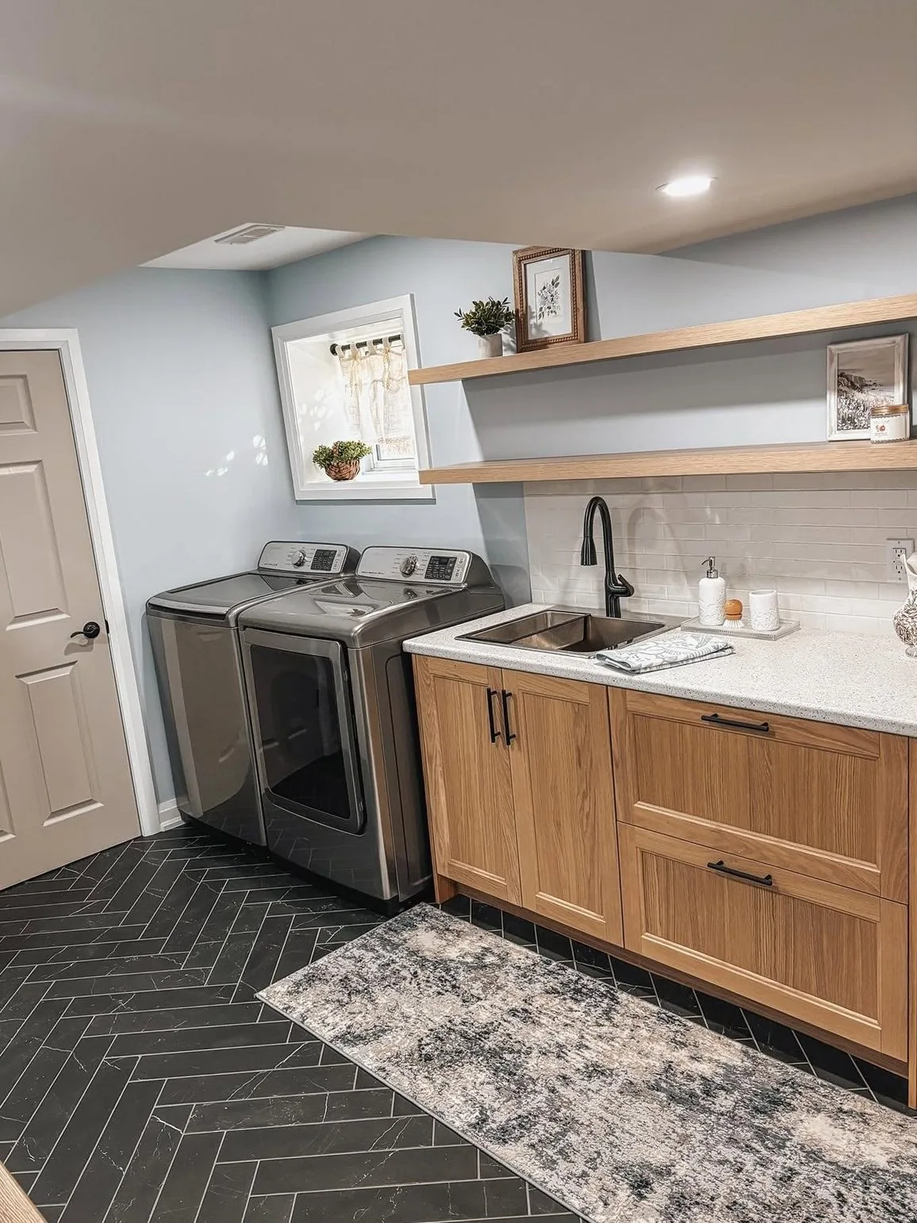
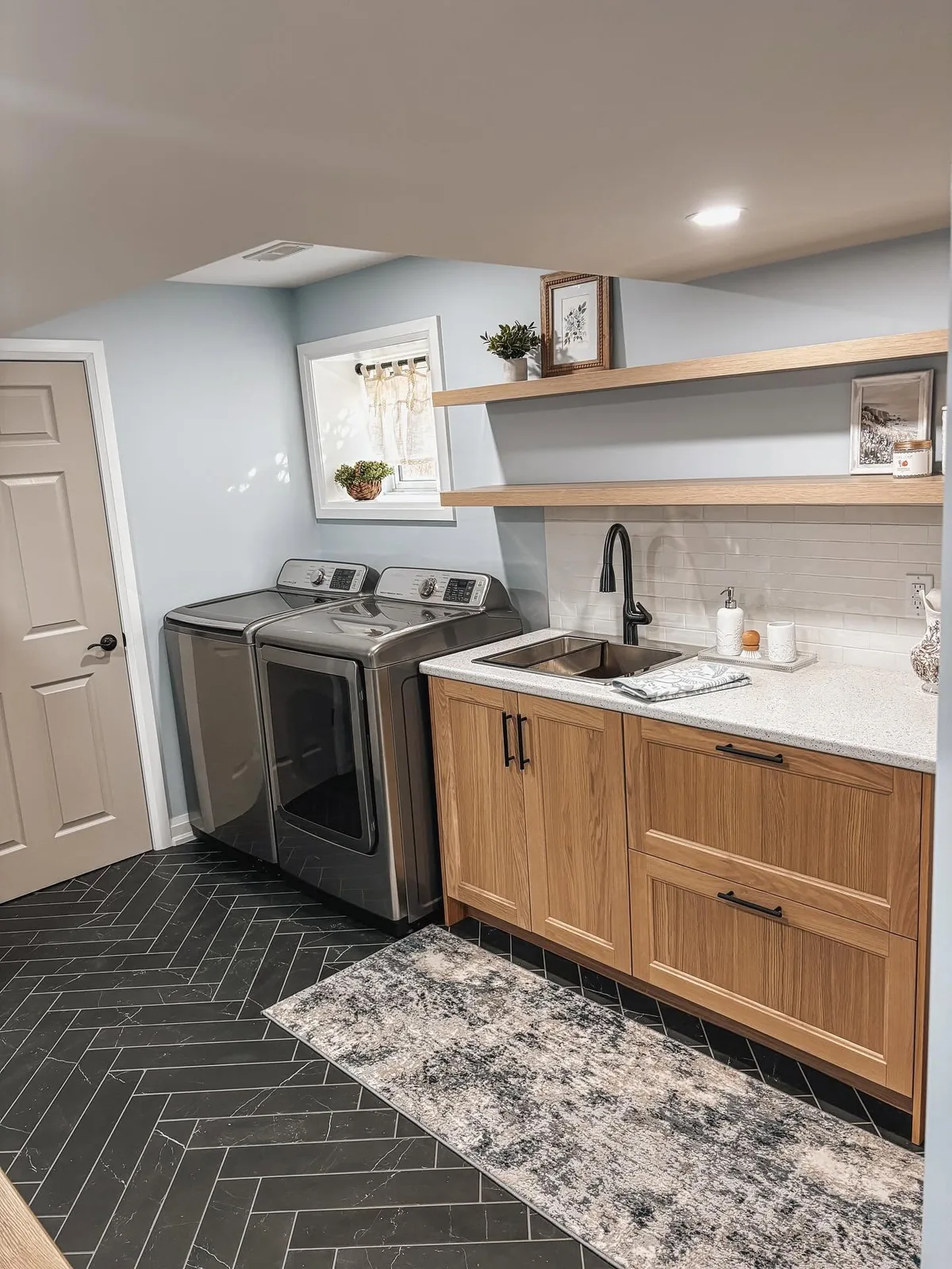
Add the pebble strip shot and re-encode twelve from larger sources
An audit of the inbox against everything published turned up thirteen
photographs my hash scored as unmatched. Checked side by side, all
thirteen are shots already on the site at a different crop, not new work.
Nothing in the inbox is now missing from the gallery.

Twelve of them did have larger copies than what we published, though, so
those are re-encoded from the inbox originals: g-fire-room and g-fire-wide
gain about 250px on the long edge, g-laundry-sink and g-laundry-doors
about 270, and so on. g-base-laundry doubles as an og:image card, so its
JPEG is regenerated to match.

The marble-look bathroom also gains the pebble mosaic strip beside the
window, which was the last unpublished photograph from that job.

diff --git a/gallery.html b/gallery.html
@@ -98,7 +98,7 @@
         <li class="mosaic__item">
           <button type="button" class="mosaic__btn" data-project="p3">
             <img src="images/g-mbath-shower.webp" alt="Shower in marble-look large-format tile" loading="lazy">
-            <span class="mosaic__label">Marble-look bathroom<em>6 photos</em></span>
+            <span class="mosaic__label">Marble-look bathroom<em>7 photos</em></span>
           </button>
         </li>
         <li class="mosaic__item">
@@ -199,7 +199,7 @@
         </li>
       </ul>
 
-      <script type="application/json" id="project-data">{"p0": {"title": "Fireplace surround", "note": "Full-height porcelain in a marble look, run floor to ceiling and returned around the corner so no cut edge is ever on show. The mantel is solid timber on concealed blocks, set above a see-through firebox.", "photos": [{"src": "images/g-fire-wide.webp", "alt": "Black marble-look fireplace surround run floor to ceiling, with a timber mantel over a see-through firebox"}, {"src": "images/g-fire-room.webp", "alt": "Black marble-look fireplace surround running full height"}, {"src": "images/g-fire-mantel.webp", "alt": "Timber mantel on cantilevered blocks above the firebox"}]}, "p1": {"title": "Charcoal shower", "note": "Large-format walls with a hexagon feature and a quartz bench. Behind all of it is a bonded waterproofing membrane taken up the walls and over the bench before a single tile went on. Levelling clips hold every tile flush while the mortar cures.", "photos": [{"src": "images/g-shower-done.webp", "alt": "Charcoal shower with hexagon feature wall and quartz bench", "stage": "Finished"}, {"src": "images/g-shower-progress.webp", "alt": "The same shower mid-build, waterproofing membrane and levelling clips visible", "stage": "During: waterproofing and levelling clips"}]}, "p2": {"title": "Fireplace and floating shelves", "note": "Concrete-look porcelain laid in herringbone, which means every tile is a cut and the pattern has to stay true right across the wall. Solid oak mantel and floating shelves, mitred where they return into the corner.", "photos": [{"src": "images/g-fire2-room.webp", "alt": "Living room with herringbone tiled fireplace wall and oak shelves"}, {"src": "images/g-fire2-wall.webp", "alt": "The fireplace wall straight on showing the herringbone pattern"}, {"src": "images/g-fire2-shelves.webp", "alt": "Solid oak floating shelves mitred into the corner"}]}, "p3": {"title": "Marble-look bathroom", "note": "Large-format porcelain with a pebble mosaic strip run floor to ceiling as a feature. The niche is framed in quartz so there is no exposed tile edge anywhere you would put your hand.", "photos": [{"src": "images/g-mbath-shower.webp", "alt": "Shower in marble-look large-format tile"}, {"src": "images/g-mbath-niche.webp", "alt": "Pebble mosaic feature strip beside a quartz-framed niche"}, {"src": "images/g-mbath-vanity.webp", "alt": "Vessel sink on a shaped quartz counter"}, {"src": "images/g-mbath-wide.webp", "alt": "The finished room with round mirror and sconces"}, {"src": "images/g-mbath-tub.webp", "alt": "The same bathroom wider, showing the tub set into the tiled surround"}, {"src": "images/g-mbath-room.webp", "alt": "Vessel basin on a shaped counter with a wall mounted tap, sconces either side of an oval mirror"}]}, "p4": {"title": "Navy kitchen", "note": "Shaker cabinetry with a quartz island, glazed subway backsplash and brass pendants. The island end is panelled with a cross detail rather than left flat.", "photos": [{"src": "images/g-kitchen-wide.webp", "alt": "Finished navy kitchen seen from the dining area"}, {"src": "images/g-kitchen-island.webp", "alt": "The island from the side showing the cross-panel end"}, {"src": "images/g-kitchen-range.webp", "alt": "Range wall with stainless hood and tiled backsplash"}, {"src": "images/g-kitchen-galley.webp", "alt": "View along the cabinetry to the farmhouse sink"}]}, "p5": {"title": "Basement, start to finish", "note": "Exposed joists and a concrete floor turned into a laundry and hallway. Framing, insulation and drywall through to herringbone tile, oak cabinetry and a quartz top.", "photos": [{"src": "images/g-base-laundry.webp", "alt": "Finished basement laundry with oak cabinetry and herringbone tile", "stage": "After"}, {"src": "images/g-floor-hall.webp", "alt": "Finished hallway with herringbone tile running through", "stage": "After"}, {"src": "images/g-base-before.webp", "alt": "The same basement before, exposed joists and concrete floor", "stage": "Before"}, {"src": "images/g-base-during.webp", "alt": "Framed up mid-build", "stage": "During: framing"}], "place": "Simcoe"}, "p6": {"title": "White shaker kitchen", "note": "Quartz peninsula, picket tile backsplash and a full run of shaker cabinetry opened to the living room. The floor was out of level, so the boxes were cut and scribed to sit true rather than shimmed.", "photos": [{"src": "images/g-wkit-open.webp", "alt": "White shaker kitchen open to the living room"}, {"src": "images/g-wkit-peninsula.webp", "alt": "Quartz peninsula with undermount sink and pendants"}, {"src": "images/g-wkit-range.webp", "alt": "Range wall with picket tile backsplash"}, {"src": "images/g-wkit-run.webp", "alt": "Full cabinetry run with tall pantry"}]}, "p7": {"title": "Tiled tub surround", "note": "The plastic surround that came with the bathroom was torn out and replaced with large-format porcelain, including a recessed niche trimmed in the same tile so the edges are mitred rather than capped. The before photograph is the old surround, not our work.", "photos": [{"src": "images/g-tub-after.webp", "alt": "Tiled tub surround in marble-look large format with a recessed niche", "stage": "After: tiled"}, {"src": "images/g-tub-before.webp", "alt": "The same tub before, with a moulded plastic surround", "stage": "Before: existing plastic surround"}]}, "p8": {"title": "Built-ins", "note": "Cabinetry built for the room it sits in rather than bought to fit it. Media wall with drawer banks and upper cabinets, and a fitted closet with shelving and rails set out to the owner's things.", "photos": [{"src": "images/g-builtin-media.webp", "alt": "Built-in media wall in sage green"}, {"src": "images/g-closet.webp", "alt": "Fitted closet with built-in shelving and rails"}, {"src": "images/g-builtin-panel.webp", "alt": "Built-in cabinet run below a cross-braced panelled wall"}, {"src": "images/g-closet2.webp", "alt": "Fitted closet with adjustable shelving and a double hanging rail"}]}, "p9": {"title": "Bathroom with patterned floor", "note": "Patterned floor tile laid so the repeat stays centred in the room, with a marble-look wainscot carried at one height right around the walls and a shower behind frameless glass. Holding that wainscot line level past a door, a window and a vanity is most of the work in a room like this.", "photos": [{"src": "images/g-pbath-room.webp", "alt": "The finished bathroom with patterned floor tile, looking through to the shower"}, {"src": "images/g-pbath-wide.webp", "alt": "The room from the doorway, patterned floor running through to the shower"}, {"src": "images/g-pbath-vanity.webp", "alt": "Double vanity with two oval mirrors against the tiled wainscot"}, {"src": "images/g-pbath-sinks.webp", "alt": "The vanity along its length, showing the quartz top and undermount basins"}, {"src": "images/g-pbath-shower.webp", "alt": "Marble-look shower with glass surround"}]}, "p10": {"title": "White and black bathroom", "note": "Handmade-look subway run as a wainscot with a capped edge, black fittings throughout, and slate-look floor tile.", "photos": [{"src": "images/g-bath2-shower.webp", "alt": "Tub and shower with black framed sliding glass"}, {"src": "images/g-bath2-vanity.webp", "alt": "Vanity with arched black-framed mirror"}, {"src": "images/g-bath2-wide.webp", "alt": "The finished room showing the tiled wainscot"}, {"src": "images/g-bath2-tub.webp", "alt": "The tub and black framed glass seen from the vanity end"}, {"src": "images/g-bath2-wc.webp", "alt": "The far corner with the tiled wainscot carried around behind the toilet"}]}, "p11": {"title": "Basement laundry", "note": "Backsplash tile set off a laser line with levelling clips, a coffered ceiling, plank flooring and fitted panelled doors.", "photos": [{"src": "images/g-laundry-wide.webp", "alt": "Finished basement laundry with tiled backsplash and coffered ceiling"}, {"src": "images/g-laundry-machines.webp", "alt": "Washer and dryer under the coffered ceiling, with the tiled backsplash and sink behind"}, {"src": "images/g-laundry-doors.webp", "alt": "Fitted panelled doors run along the room with the laundry beyond"}, {"src": "images/g-laundry-sink.webp", "alt": "Laundry sink and taps against the tiled wall"}, {"src": "images/g-laundry-tiling.webp", "alt": "Joel setting the backsplash off a laser line", "stage": "During: setting the backsplash"}]}, "p12": {"title": "Backsplashes", "note": "Arabesque glass, chevron mosaic, and a patterned panel set into plain subway. All are laid out dry first so the cuts land where they are least seen, at the edges rather than through the middle of the wall. The patterned panel is framed by the field tile on every side, so it reads as an inset rather than somewhere the tiler ran out.", "photos": [{"src": "images/g-tile-arabesque.webp", "alt": "Blue and grey arabesque glass tile backsplash"}, {"src": "images/g-tile-chevron.webp", "alt": "White chevron mosaic tile backsplash"}, {"src": "images/g-tile-patterned.webp", "alt": "Patterned tile panel set into a plain subway backsplash behind the sink"}]}, "p13": {"title": "Sage green kitchen", "note": "Flat panel cabinetry in a muted green with a fireclay apron sink and a built on site hood. The subway tile is stacked to a laser line rather than followed off the counter, so the joints stay true the full width of the wall.", "photos": [{"src": "images/g-sage-wide.webp", "alt": "Sage green kitchen looking down the run to the range and hood"}, {"src": "images/g-sage-sink.webp", "alt": "Fireclay apron sink under the window with subway tile behind"}, {"src": "images/g-sage-fridge.webp", "alt": "Tall cabinetry beside the fridge with a built in microwave"}]}, "p14": {"title": "Marble and black bathroom", "note": "Tub and shower in one room, in large format porcelain with a marble look. The tub apron is tiled and mitred at the corner rather than capped with trim, and the niche is lined in the same dark hexagon mosaic as the floor.", "photos": [{"src": "images/g-cbath-shower.webp", "alt": "Shower in marble look porcelain behind black framed glass"}, {"src": "images/g-cbath-tub.webp", "alt": "Tub set into a tiled surround with black fittings"}]}, "p15": {"title": "Traditional white kitchen", "note": "Painted cabinetry with glazed upper doors, a tiled backsplash and large format stone look floor tile carried through into the dining area.", "photos": [{"src": "images/g-tkit-wide.webp", "alt": "White kitchen with glazed upper cabinets and a tiled floor"}, {"src": "images/g-tkit-glass.webp", "alt": "Cabinetry beside the patio door with glass fronted uppers"}]}, "p16": {"title": "Herringbone range wall", "note": "Stone look porcelain run in herringbone the full height behind the range. Every tile in a herringbone is a cut, and the layout is set off the centre line of the hood so the pattern stays symmetrical on both sides.", "photos": [{"src": "images/g-hkit-hood.webp", "alt": "Herringbone tiled range wall with a stainless chimney hood"}]}, "p17": {"title": "Geometric backsplash", "note": "A geometric mosaic against dark stained cabinetry and a quartz counter. Sheet mosaic shows every misalignment, so the sheets are dry laid across the whole run and the grid trued up before any of it is fixed.", "photos": [{"src": "images/g-gkit-backsplash.webp", "alt": "White geometric mosaic backsplash above a quartz counter"}]}, "p18": {"title": "New counters, existing cabinets", "note": "The oak was sound and worth keeping, so the job was quartz counters, a new sink and tap and a tiled backsplash, rather than tearing out a kitchen that had years left in it.", "photos": [{"src": "images/g-counters-oak.webp", "alt": "Quartz counters and a new backsplash fitted to existing oak cabinets"}]}, "p19": {"title": "Deck and privacy screens", "note": "A raised deck with cedar privacy screens. The screens are framed and infilled rather than butted together, so the boards can move with the weather without opening gaps along the joints.", "photos": [{"src": "images/g-deck-screen.webp", "alt": "Raised deck with cedar privacy screens and steps down to the garden"}, {"src": "images/g-deck-wide.webp", "alt": "Raised cedar deck with privacy screening along two sides"}, {"src": "images/g-deck-cedar.webp", "alt": "Cedar screen wall seen along the deck"}]}, "p20": {"title": "Marble shower with mosaic band", "note": "Large format porcelain in a soft grey marble, with a mosaic band run level right around the enclosure and a bench built into the corner. The floor is a small round mosaic, which is what lets a shower floor fall to the drain from every direction without any tile having to bend.", "photos": [{"src": "images/g-pbath-bench.webp", "alt": "Grey marble shower with a mosaic accent band, corner bench and frameless glass"}]}}</script>
+      <script type="application/json" id="project-data">{"p0": {"title": "Fireplace surround", "note": "Full-height porcelain in a marble look, run floor to ceiling and returned around the corner so no cut edge is ever on show. The mantel is solid timber on concealed blocks, set above a see-through firebox.", "photos": [{"src": "images/g-fire-wide.webp", "alt": "Black marble-look fireplace surround run floor to ceiling, with a timber mantel over a see-through firebox"}, {"src": "images/g-fire-room.webp", "alt": "Black marble-look fireplace surround running full height"}, {"src": "images/g-fire-mantel.webp", "alt": "Timber mantel on cantilevered blocks above the firebox"}]}, "p1": {"title": "Charcoal shower", "note": "Large-format walls with a hexagon feature and a quartz bench. Behind all of it is a bonded waterproofing membrane taken up the walls and over the bench before a single tile went on. Levelling clips hold every tile flush while the mortar cures.", "photos": [{"src": "images/g-shower-done.webp", "alt": "Charcoal shower with hexagon feature wall and quartz bench", "stage": "Finished"}, {"src": "images/g-shower-progress.webp", "alt": "The same shower mid-build, waterproofing membrane and levelling clips visible", "stage": "During: waterproofing and levelling clips"}]}, "p2": {"title": "Fireplace and floating shelves", "note": "Concrete-look porcelain laid in herringbone, which means every tile is a cut and the pattern has to stay true right across the wall. Solid oak mantel and floating shelves, mitred where they return into the corner.", "photos": [{"src": "images/g-fire2-room.webp", "alt": "Living room with herringbone tiled fireplace wall and oak shelves"}, {"src": "images/g-fire2-wall.webp", "alt": "The fireplace wall straight on showing the herringbone pattern"}, {"src": "images/g-fire2-shelves.webp", "alt": "Solid oak floating shelves mitred into the corner"}]}, "p3": {"title": "Marble-look bathroom", "note": "Large-format porcelain with a pebble mosaic strip run floor to ceiling as a feature. The niche is framed in quartz so there is no exposed tile edge anywhere you would put your hand.", "photos": [{"src": "images/g-mbath-shower.webp", "alt": "Shower in marble-look large-format tile"}, {"src": "images/g-mbath-niche.webp", "alt": "Pebble mosaic feature strip beside a quartz-framed niche"}, {"src": "images/g-mbath-vanity.webp", "alt": "Vessel sink on a shaped quartz counter"}, {"src": "images/g-mbath-wide.webp", "alt": "The finished room with round mirror and sconces"}, {"src": "images/g-mbath-tub.webp", "alt": "The same bathroom wider, showing the tub set into the tiled surround"}, {"src": "images/g-mbath-room.webp", "alt": "Vessel basin on a shaped counter with a wall mounted tap, sconces either side of an oval mirror"}, {"src": "images/g-mbath-strip.webp", "alt": "The pebble mosaic strip run floor to ceiling beside the window, with the tub below"}]}, "p4": {"title": "Navy kitchen", "note": "Shaker cabinetry with a quartz island, glazed subway backsplash and brass pendants. The island end is panelled with a cross detail rather than left flat.", "photos": [{"src": "images/g-kitchen-wide.webp", "alt": "Finished navy kitchen seen from the dining area"}, {"src": "images/g-kitchen-island.webp", "alt": "The island from the side showing the cross-panel end"}, {"src": "images/g-kitchen-range.webp", "alt": "Range wall with stainless hood and tiled backsplash"}, {"src": "images/g-kitchen-galley.webp", "alt": "View along the cabinetry to the farmhouse sink"}]}, "p5": {"title": "Basement, start to finish", "note": "Exposed joists and a concrete floor turned into a laundry and hallway. Framing, insulation and drywall through to herringbone tile, oak cabinetry and a quartz top.", "photos": [{"src": "images/g-base-laundry.webp", "alt": "Finished basement laundry with oak cabinetry and herringbone tile", "stage": "After"}, {"src": "images/g-floor-hall.webp", "alt": "Finished hallway with herringbone tile running through", "stage": "After"}, {"src": "images/g-base-before.webp", "alt": "The same basement before, exposed joists and concrete floor", "stage": "Before"}, {"src": "images/g-base-during.webp", "alt": "Framed up mid-build", "stage": "During: framing"}], "place": "Simcoe"}, "p6": {"title": "White shaker kitchen", "note": "Quartz peninsula, picket tile backsplash and a full run of shaker cabinetry opened to the living room. The floor was out of level, so the boxes were cut and scribed to sit true rather than shimmed.", "photos": [{"src": "images/g-wkit-open.webp", "alt": "White shaker kitchen open to the living room"}, {"src": "images/g-wkit-peninsula.webp", "alt": "Quartz peninsula with undermount sink and pendants"}, {"src": "images/g-wkit-range.webp", "alt": "Range wall with picket tile backsplash"}, {"src": "images/g-wkit-run.webp", "alt": "Full cabinetry run with tall pantry"}]}, "p7": {"title": "Tiled tub surround", "note": "The plastic surround that came with the bathroom was torn out and replaced with large-format porcelain, including a recessed niche trimmed in the same tile so the edges are mitred rather than capped. The before photograph is the old surround, not our work.", "photos": [{"src": "images/g-tub-after.webp", "alt": "Tiled tub surround in marble-look large format with a recessed niche", "stage": "After: tiled"}, {"src": "images/g-tub-before.webp", "alt": "The same tub before, with a moulded plastic surround", "stage": "Before: existing plastic surround"}]}, "p8": {"title": "Built-ins", "note": "Cabinetry built for the room it sits in rather than bought to fit it. Media wall with drawer banks and upper cabinets, and a fitted closet with shelving and rails set out to the owner's things.", "photos": [{"src": "images/g-builtin-media.webp", "alt": "Built-in media wall in sage green"}, {"src": "images/g-closet.webp", "alt": "Fitted closet with built-in shelving and rails"}, {"src": "images/g-builtin-panel.webp", "alt": "Built-in cabinet run below a cross-braced panelled wall"}, {"src": "images/g-closet2.webp", "alt": "Fitted closet with adjustable shelving and a double hanging rail"}]}, "p9": {"title": "Bathroom with patterned floor", "note": "Patterned floor tile laid so the repeat stays centred in the room, with a marble-look wainscot carried at one height right around the walls and a shower behind frameless glass. Holding that wainscot line level past a door, a window and a vanity is most of the work in a room like this.", "photos": [{"src": "images/g-pbath-room.webp", "alt": "The finished bathroom with patterned floor tile, looking through to the shower"}, {"src": "images/g-pbath-wide.webp", "alt": "The room from the doorway, patterned floor running through to the shower"}, {"src": "images/g-pbath-vanity.webp", "alt": "Double vanity with two oval mirrors against the tiled wainscot"}, {"src": "images/g-pbath-sinks.webp", "alt": "The vanity along its length, showing the quartz top and undermount basins"}, {"src": "images/g-pbath-shower.webp", "alt": "Marble-look shower with glass surround"}]}, "p10": {"title": "White and black bathroom", "note": "Handmade-look subway run as a wainscot with a capped edge, black fittings throughout, and slate-look floor tile.", "photos": [{"src": "images/g-bath2-shower.webp", "alt": "Tub and shower with black framed sliding glass"}, {"src": "images/g-bath2-vanity.webp", "alt": "Vanity with arched black-framed mirror"}, {"src": "images/g-bath2-wide.webp", "alt": "The finished room showing the tiled wainscot"}, {"src": "images/g-bath2-tub.webp", "alt": "The tub and black framed glass seen from the vanity end"}, {"src": "images/g-bath2-wc.webp", "alt": "The far corner with the tiled wainscot carried around behind the toilet"}]}, "p11": {"title": "Basement laundry", "note": "Backsplash tile set off a laser line with levelling clips, a coffered ceiling, plank flooring and fitted panelled doors.", "photos": [{"src": "images/g-laundry-wide.webp", "alt": "Finished basement laundry with tiled backsplash and coffered ceiling"}, {"src": "images/g-laundry-machines.webp", "alt": "Washer and dryer under the coffered ceiling, with the tiled backsplash and sink behind"}, {"src": "images/g-laundry-doors.webp", "alt": "Fitted panelled doors run along the room with the laundry beyond"}, {"src": "images/g-laundry-sink.webp", "alt": "Laundry sink and taps against the tiled wall"}, {"src": "images/g-laundry-tiling.webp", "alt": "Joel setting the backsplash off a laser line", "stage": "During: setting the backsplash"}]}, "p12": {"title": "Backsplashes", "note": "Arabesque glass, chevron mosaic, and a patterned panel set into plain subway. All are laid out dry first so the cuts land where they are least seen, at the edges rather than through the middle of the wall. The patterned panel is framed by the field tile on every side, so it reads as an inset rather than somewhere the tiler ran out.", "photos": [{"src": "images/g-tile-arabesque.webp", "alt": "Blue and grey arabesque glass tile backsplash"}, {"src": "images/g-tile-chevron.webp", "alt": "White chevron mosaic tile backsplash"}, {"src": "images/g-tile-patterned.webp", "alt": "Patterned tile panel set into a plain subway backsplash behind the sink"}]}, "p13": {"title": "Sage green kitchen", "note": "Flat panel cabinetry in a muted green with a fireclay apron sink and a built on site hood. The subway tile is stacked to a laser line rather than followed off the counter, so the joints stay true the full width of the wall.", "photos": [{"src": "images/g-sage-wide.webp", "alt": "Sage green kitchen looking down the run to the range and hood"}, {"src": "images/g-sage-sink.webp", "alt": "Fireclay apron sink under the window with subway tile behind"}, {"src": "images/g-sage-fridge.webp", "alt": "Tall cabinetry beside the fridge with a built in microwave"}]}, "p14": {"title": "Marble and black bathroom", "note": "Tub and shower in one room, in large format porcelain with a marble look. The tub apron is tiled and mitred at the corner rather than capped with trim, and the niche is lined in the same dark hexagon mosaic as the floor.", "photos": [{"src": "images/g-cbath-shower.webp", "alt": "Shower in marble look porcelain behind black framed glass"}, {"src": "images/g-cbath-tub.webp", "alt": "Tub set into a tiled surround with black fittings"}]}, "p15": {"title": "Traditional white kitchen", "note": "Painted cabinetry with glazed upper doors, a tiled backsplash and large format stone look floor tile carried through into the dining area.", "photos": [{"src": "images/g-tkit-wide.webp", "alt": "White kitchen with glazed upper cabinets and a tiled floor"}, {"src": "images/g-tkit-glass.webp", "alt": "Cabinetry beside the patio door with glass fronted uppers"}]}, "p16": {"title": "Herringbone range wall", "note": "Stone look porcelain run in herringbone the full height behind the range. Every tile in a herringbone is a cut, and the layout is set off the centre line of the hood so the pattern stays symmetrical on both sides.", "photos": [{"src": "images/g-hkit-hood.webp", "alt": "Herringbone tiled range wall with a stainless chimney hood"}]}, "p17": {"title": "Geometric backsplash", "note": "A geometric mosaic against dark stained cabinetry and a quartz counter. Sheet mosaic shows every misalignment, so the sheets are dry laid across the whole run and the grid trued up before any of it is fixed.", "photos": [{"src": "images/g-gkit-backsplash.webp", "alt": "White geometric mosaic backsplash above a quartz counter"}]}, "p18": {"title": "New counters, existing cabinets", "note": "The oak was sound and worth keeping, so the job was quartz counters, a new sink and tap and a tiled backsplash, rather than tearing out a kitchen that had years left in it.", "photos": [{"src": "images/g-counters-oak.webp", "alt": "Quartz counters and a new backsplash fitted to existing oak cabinets"}]}, "p19": {"title": "Deck and privacy screens", "note": "A raised deck with cedar privacy screens. The screens are framed and infilled rather than butted together, so the boards can move with the weather without opening gaps along the joints.", "photos": [{"src": "images/g-deck-screen.webp", "alt": "Raised deck with cedar privacy screens and steps down to the garden"}, {"src": "images/g-deck-wide.webp", "alt": "Raised cedar deck with privacy screening along two sides"}, {"src": "images/g-deck-cedar.webp", "alt": "Cedar screen wall seen along the deck"}]}, "p20": {"title": "Marble shower with mosaic band", "note": "Large format porcelain in a soft grey marble, with a mosaic band run level right around the enclosure and a bench built into the corner. The floor is a small round mosaic, which is what lets a shower floor fall to the drain from every direction without any tile having to bend.", "photos": [{"src": "images/g-pbath-bench.webp", "alt": "Grey marble shower with a mosaic accent band, corner bench and frameless glass"}]}}</script>
     </div>
   </section>
 
